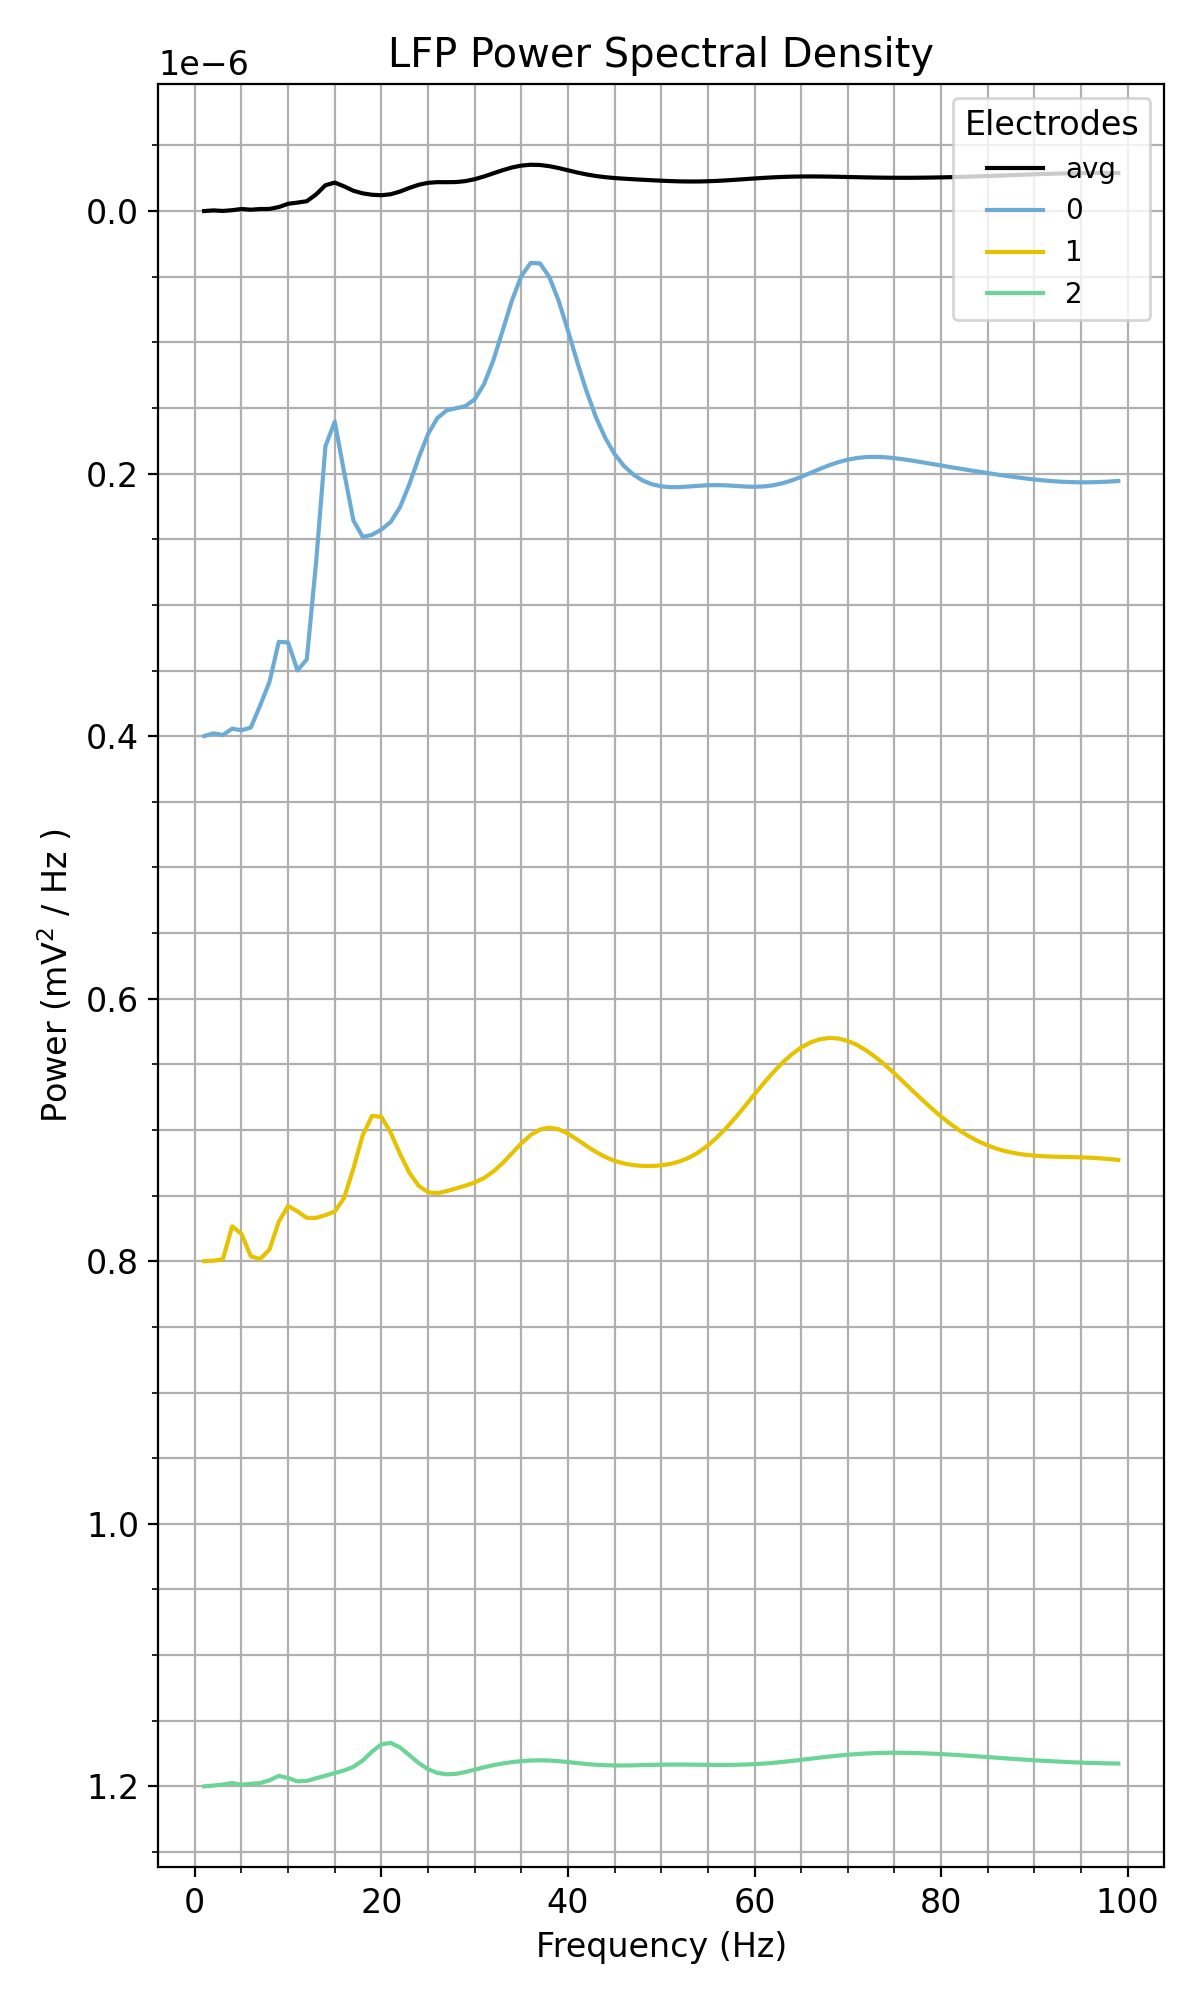
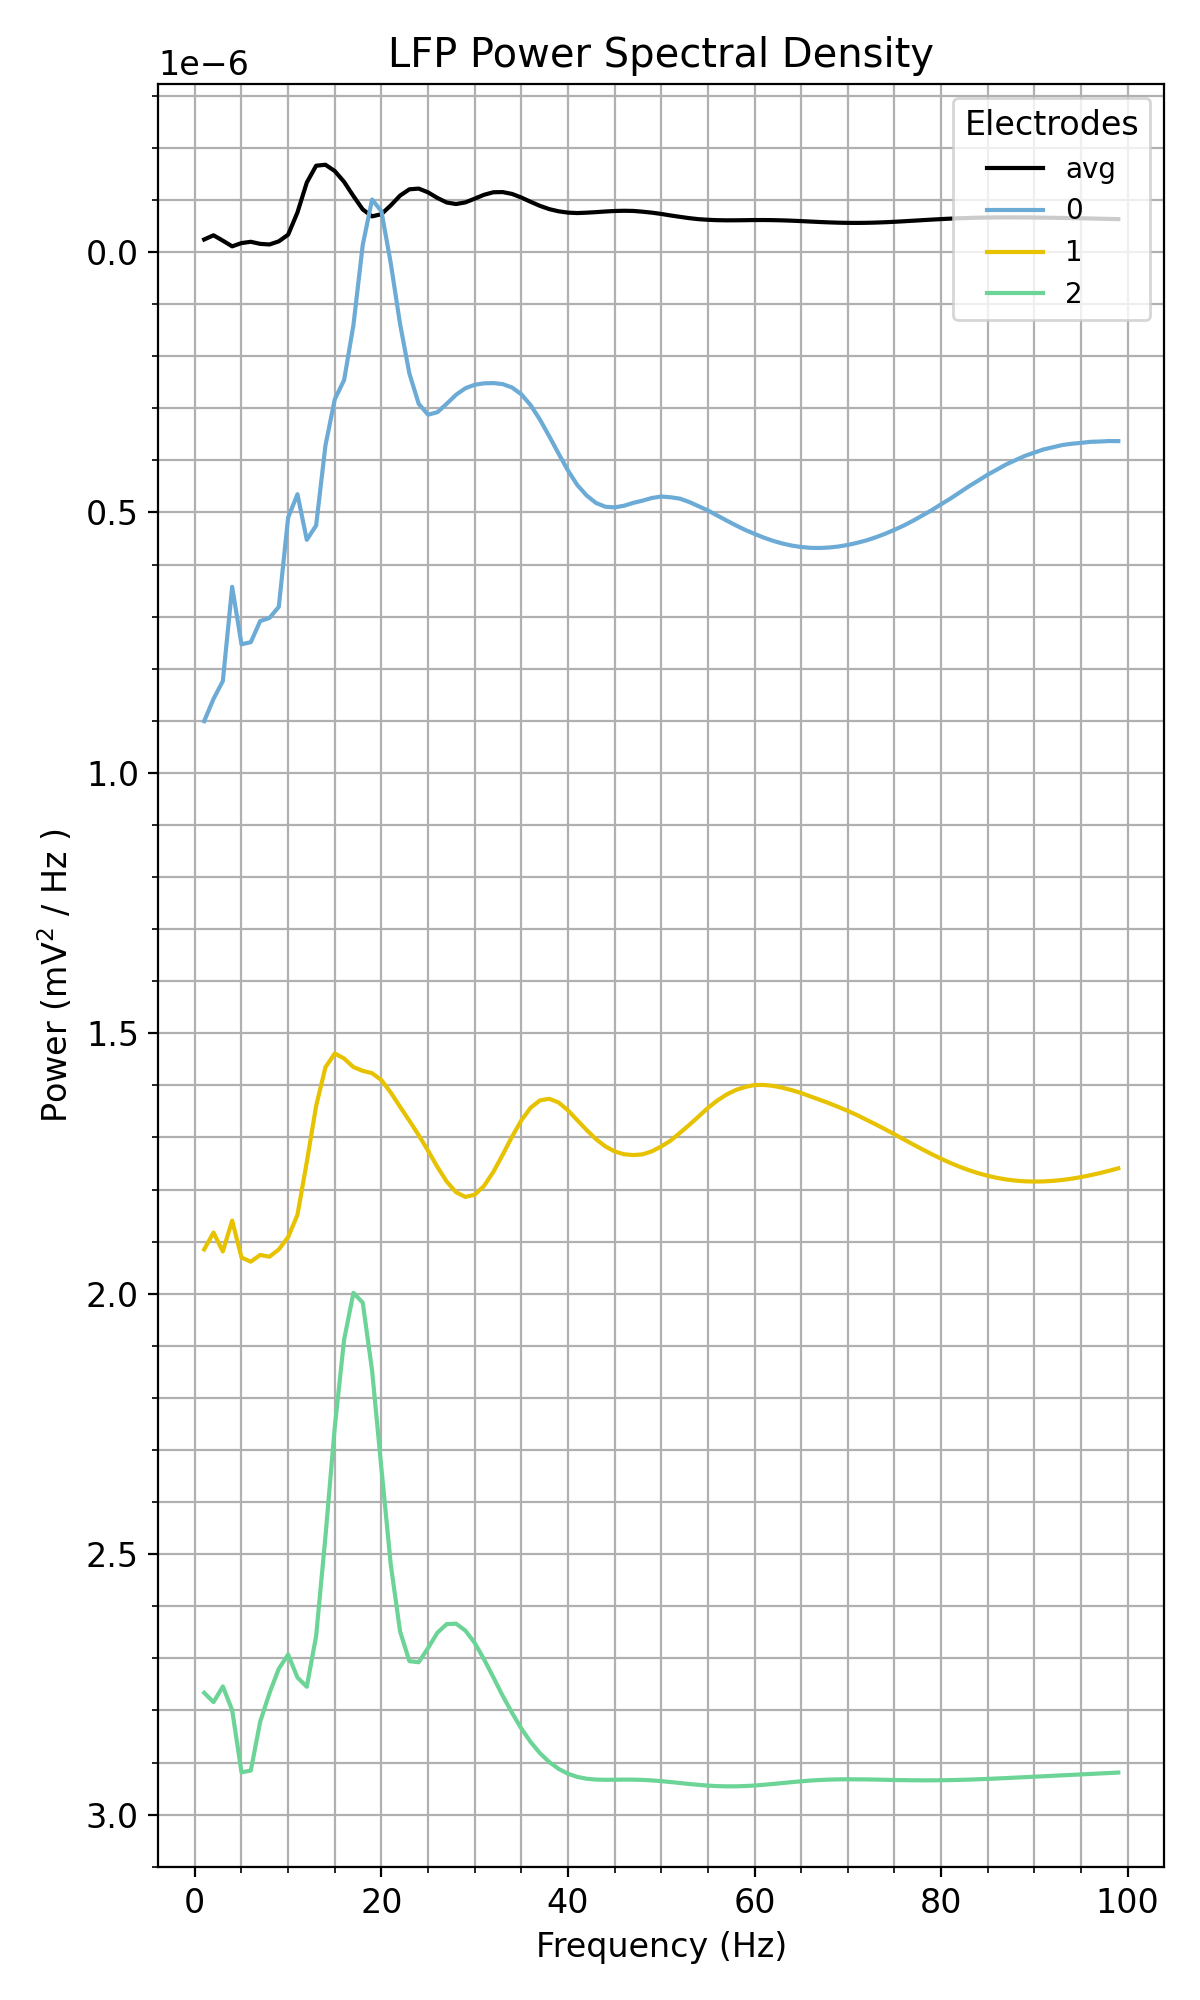
rxd tutorial done

diff --git a/10_Reaction-Diffusion/rxd_net/src/cfg.py b/10_Reaction-Diffusion/rxd_net/src/cfg.py
@@ -1,39 +1,56 @@
 from netpyne import specs
 
-#------------------------------------------------------------------------------
+# ------------------------------------------------------------------------------
 #
 # SIMULATION CONFIGURATION
 #
-#------------------------------------------------------------------------------
+# ------------------------------------------------------------------------------
 
 # Run parameters
-cfg = specs.SimConfig()       # object of class cfg to store simulation configuration
-cfg.duration = 1.0*1e3        # Duration of the simulation, in ms
-cfg.hParams['v_init'] = -65   # set v_init to -65 mV
-cfg.dt = 0.1                  # Internal integration timestep to use
-cfg.verbose = False            # Show detailed messages
-cfg.recordStep = 1             # Step size in ms to save data (eg. V traces, LFP, etc)
-cfg.filename = 'rxd_net'   # Set file output name
+cfg = specs.SimConfig()  # object of class cfg to store simulation configuration
+cfg.duration = 1.0 * 1e3  # Duration of the simulation, in ms
+cfg.hParams["v_init"] = -65  # set v_init to -65 mV
+cfg.dt = 0.1  # Internal integration timestep to use
+cfg.verbose = False  # Show detailed messages
+cfg.recordStep = 1  # Step size in ms to save data (eg. V traces, LFP, etc)
+cfg.filename = "rxd_net"  # Set file output name
 
- # Network dimensions
+# Network dimensions
 cfg.sizeX = 100
 cfg.sizeY = 500
 cfg.sizeZ = 100
 
 # Recording/plotting parameters
-cfg.recordTraces = {'V_soma':{'sec': 'soma','loc': 0.5,'var': 'v'},
-                          'ik_soma': {'sec': 'soma', 'loc': 0.5, 'var': 'ik'},
-                          'cai_soma': {'sec': 'soma', 'loc':0.5, 'var': 'cai'},
-                          'cao_soma': {'sec': 'soma', 'loc':0.5, 'var': 'cao'}}
+cfg.recordTraces = {
+    "V_soma": {"sec": "soma", "loc": 0.5, "var": "v"},
+    "ik_soma": {"sec": "soma", "loc": 0.5, "var": "ik"},
+    "cai_soma": {"sec": "soma", "loc": 0.5, "var": "cai"},
+    "cao_soma": {"sec": "soma", "loc": 0.5, "var": "cao"},
+}
 
-cfg.recordLFP = [[-15, y, 1.0*cfg.sizeZ] for y in range(int(cfg.sizeY/3), int(cfg.sizeY), int(cfg.sizeY/3))]
+cfg.recordLFP = [
+    [-15, y, 1.0 * cfg.sizeZ]
+    for y in range(int(cfg.sizeY / 3), int(cfg.sizeY), int(cfg.sizeY / 3))
+]
 
-cfg.analysis['plotTraces']={'include': [0]}
-cfg.analysis['plotRaster'] = {'orderBy': 'y', 'orderInverse': True, 'saveFig': True, 'figSize': (9,3)}      # Plot a raster
-cfg.analysis['plotLFP'] = {'includeAxon': False, 'figSize': (6,10), 'NFFT': 256, 'noverlap': 48, 'nperseg': 64, 'saveFig': True}
-cfg.analysis['plotRxDConcentration'] = {'speciesLabel': 'ca', 'regionLabel': 'ecs'}
+cfg.analysis["plotTraces"] = {"include": [0]}
+cfg.analysis["plotRaster"] = {
+    "orderBy": "y",
+    "orderInverse": True,
+    "saveFig": True,
+    "figSize": (9, 6),
+}  # Plot a raster
+cfg.analysis["plotLFP"] = {
+    "includeAxon": False,
+    "figSize": (6, 10),
+    "NFFT": 256,
+    "noverlap": 48,
+    "nperseg": 64,
+    "saveFig": True,
+}
+cfg.analysis["plotRxDConcentration"] = {"speciesLabel": "ca", "regionLabel": "ecs"}
 
 # parameters
 ## Change ip3_init from 0 to 0.1 to observe multiscale effect:
 ## high ip3 -> ER Ca released to Cyt -> kBK channels open -> less firing
-cfg.ip3_init = 0.0
+cfg.ip3_init = 0.1
